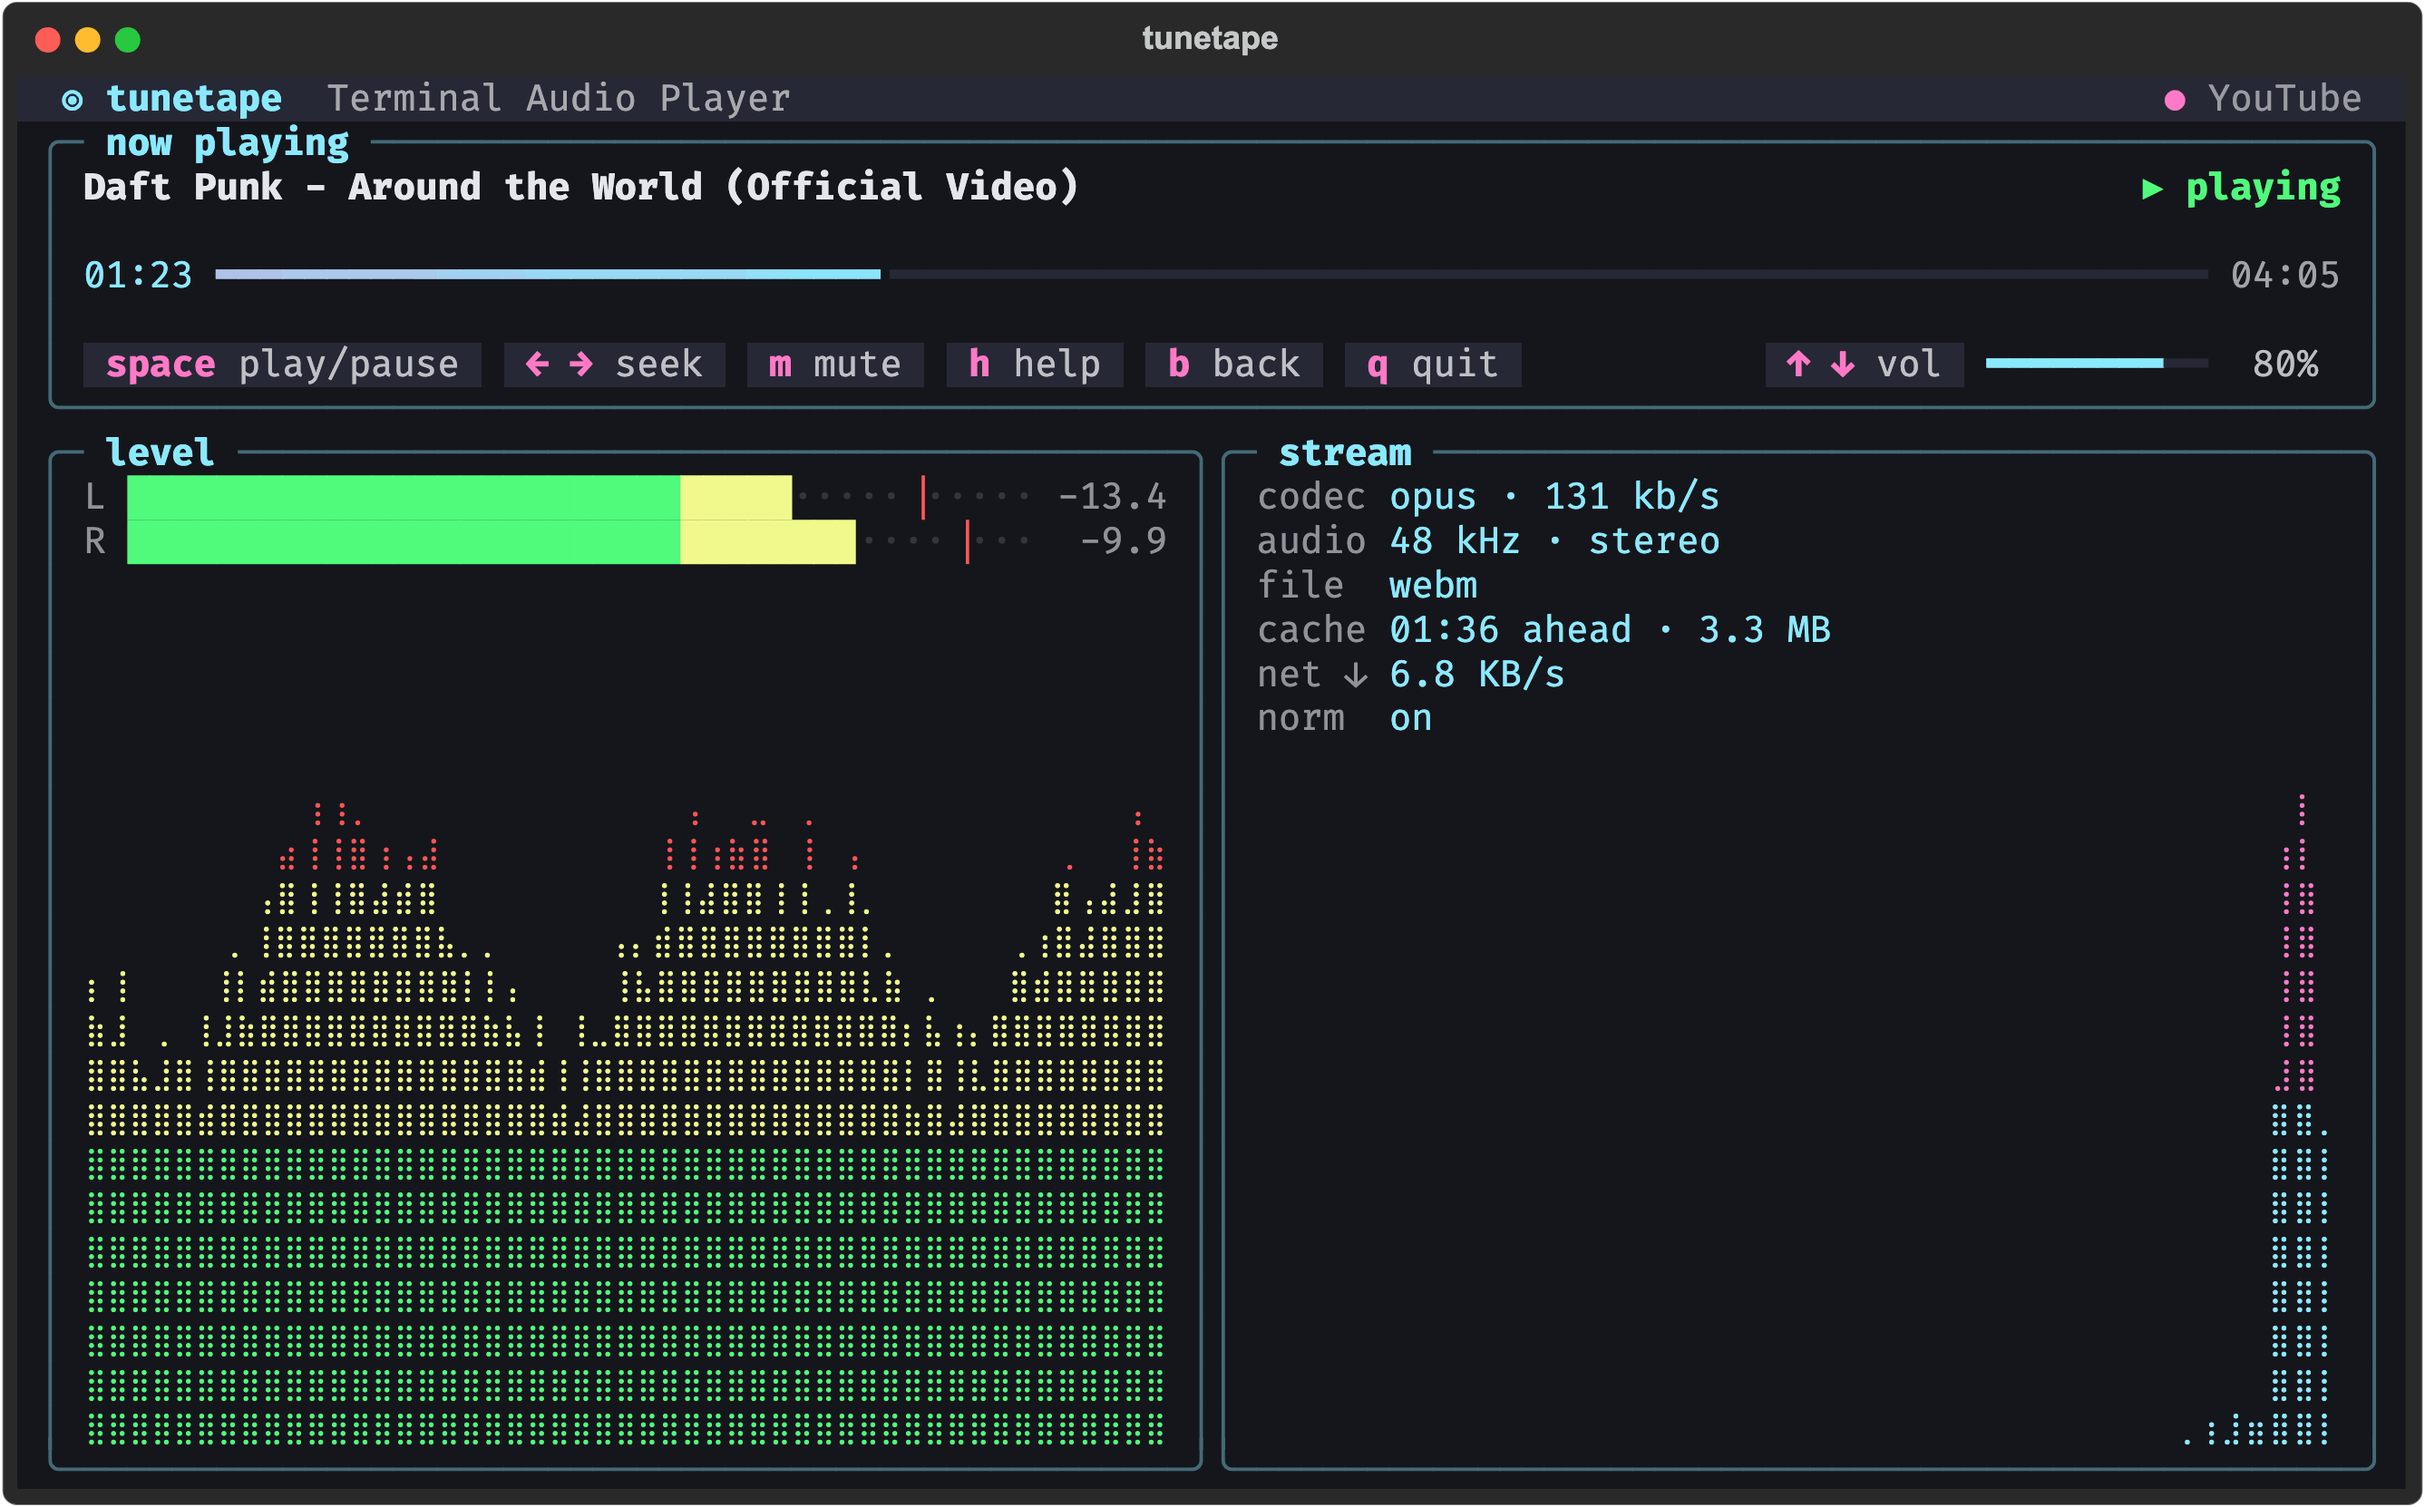
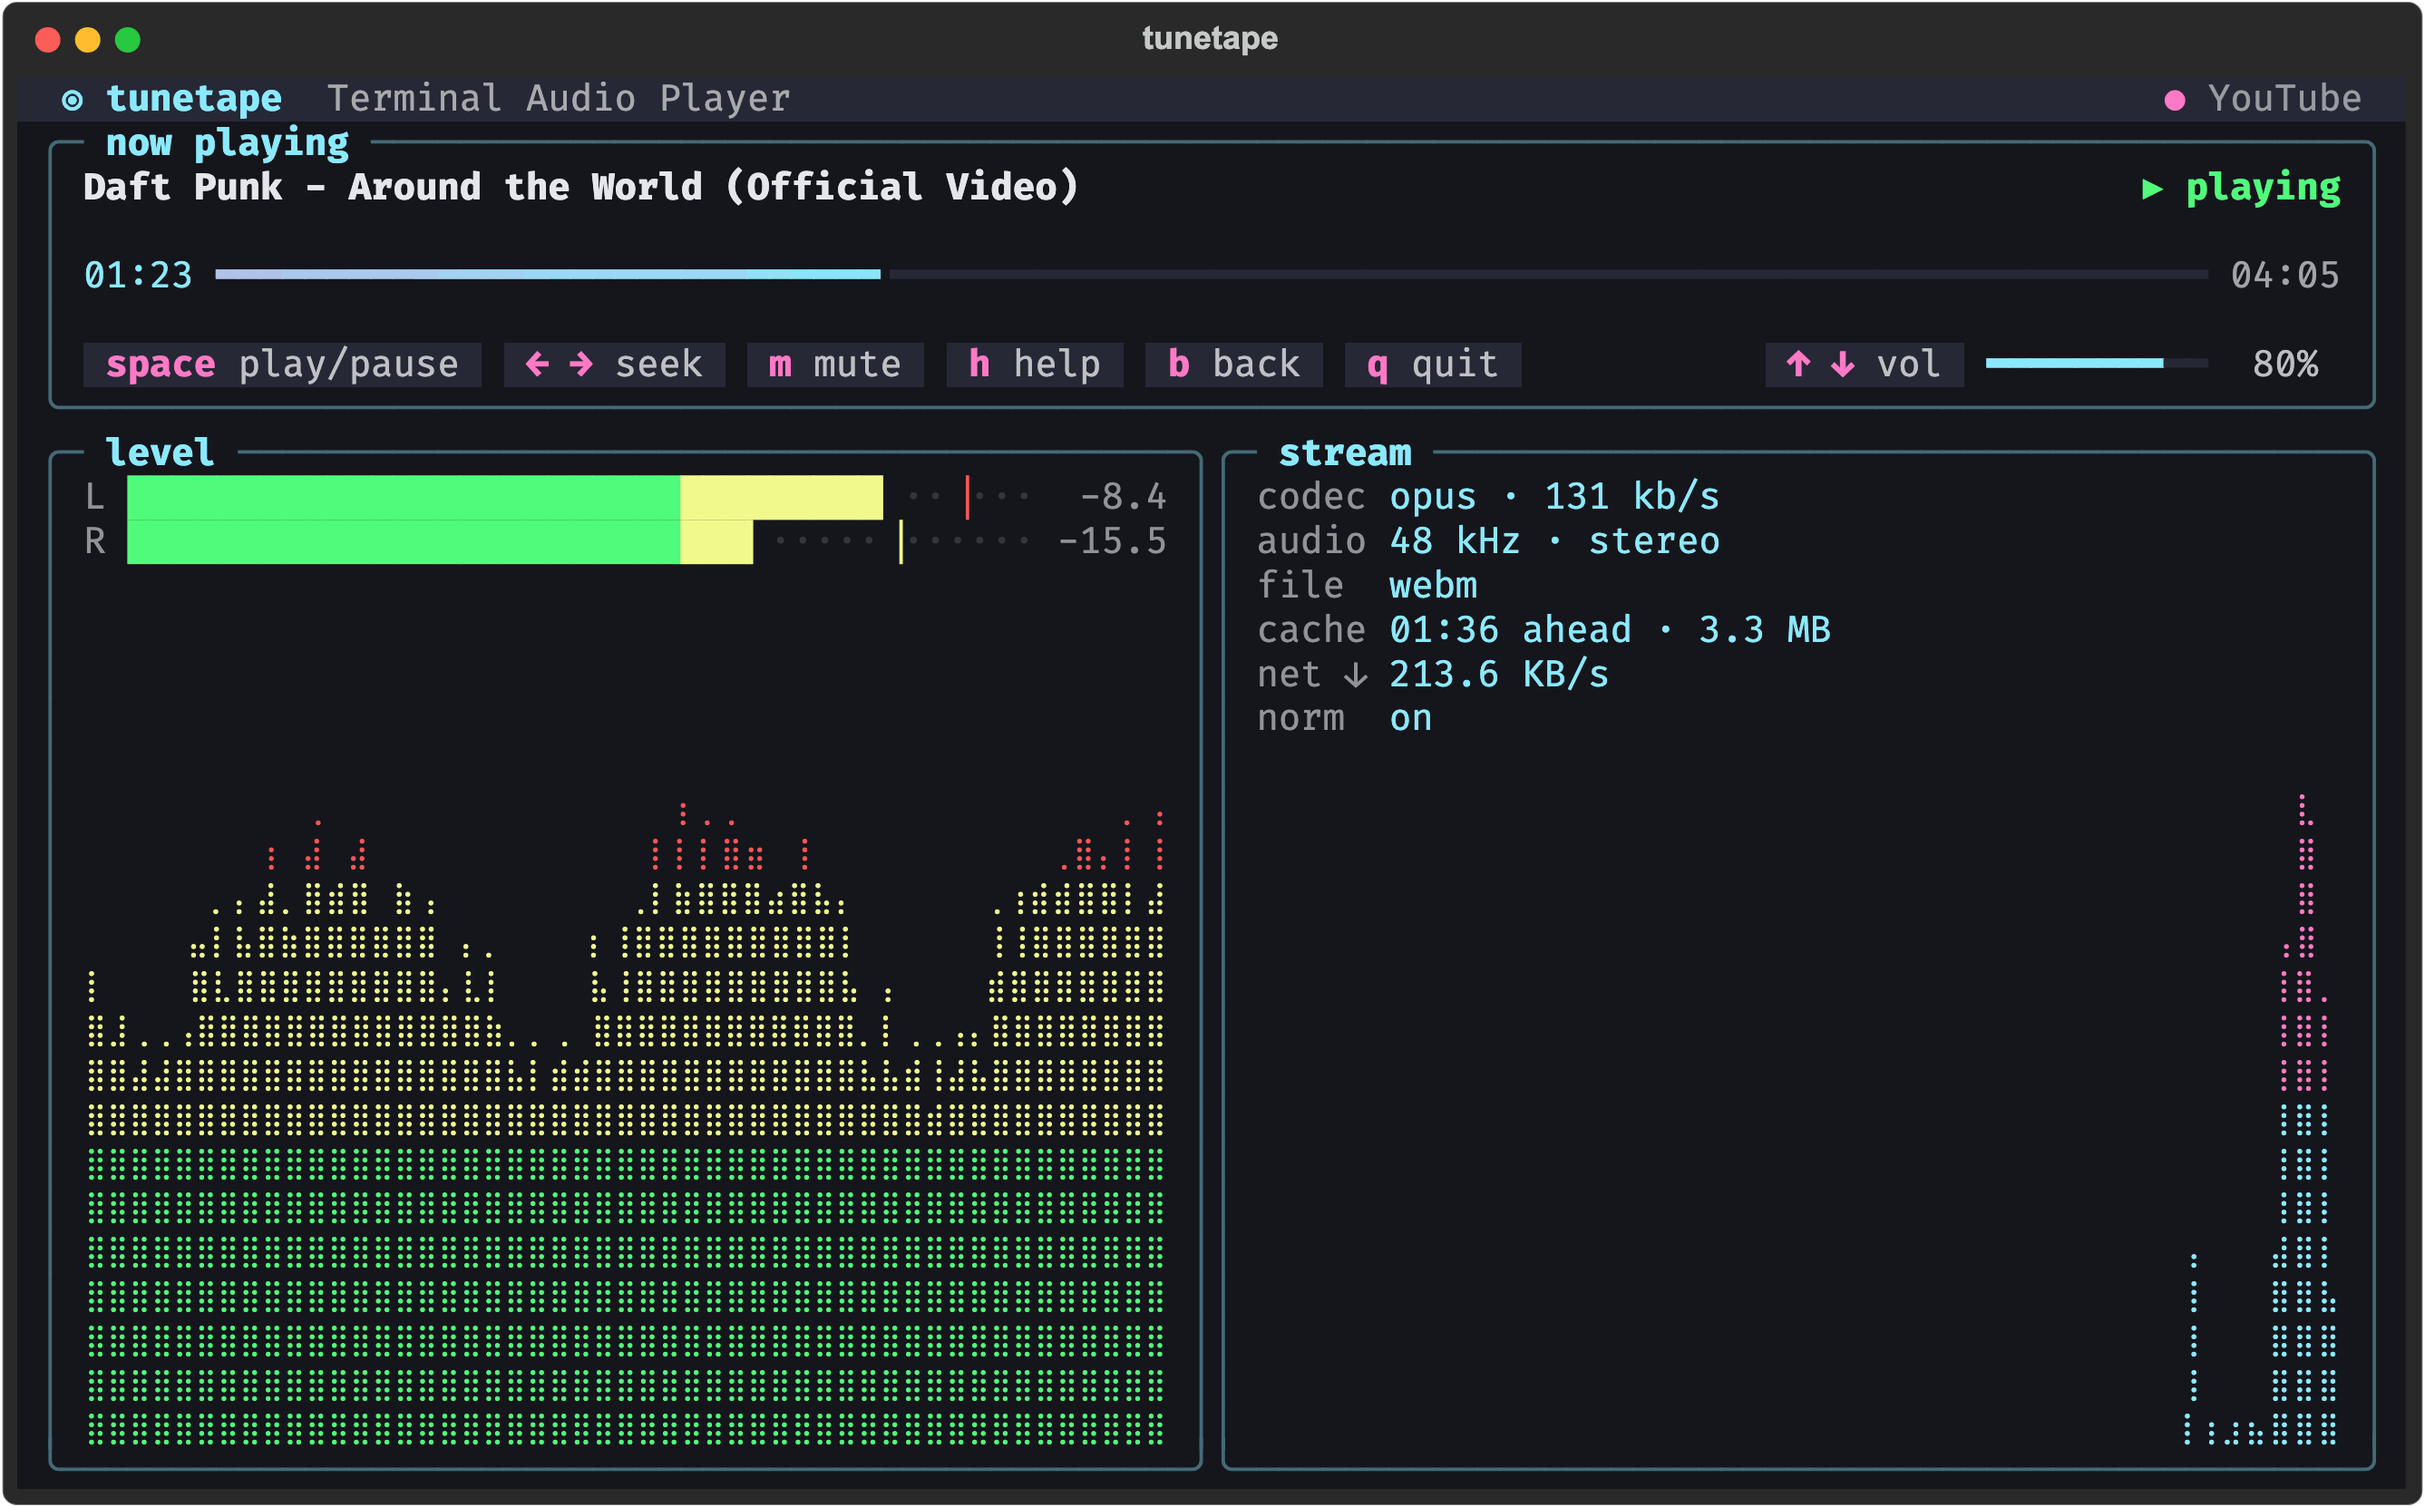
Show just the keys on the player's caps below 96 columns
Narrower than 96 columns, the player's caps drop their labels and show
only the key (space, ← →, m, p, n, h, b, q); from 96 up they keep the
labels. When the caps and the volume gauge don't fit one row, the caps
stay together and the gauge takes the row below, right-aligned, unless
balancing them together saves a row.

diff --git a/tunetape/widgets.py b/tunetape/widgets.py
@@ -367,7 +367,9 @@ class KeyCaps(Widget):
     left, and a ``tail`` (say, a volume gauge) sits at the right end of the
     last row. ``boxed`` caps are little boxes with the key in the top border
     instead, falling back to pills when the terminal is shorter than
-    ``flat_below`` rows. Clicking a cap runs its action; with ``navigable``
+    ``flat_below`` rows. On terminals narrower than ``keys_only_below``
+    columns the pills drop their labels and show just the key. Clicking a
+    cap runs its action; with ``navigable``
     the arrows move a cursor between caps and enter presses the one under it.
     ``None`` in ``caps`` starts a new row. Caps whose action the screen's
     ``check_action`` hides or disables are dropped or dimmed, so call
@@ -397,12 +399,14 @@ class KeyCaps(Widget):
             self.x = x
 
     def __init__(self, caps: list, *, navigable: bool = False, boxed: bool = False,
-                 flat_below: int = 0, align: str = "left", **kwargs):
+                 flat_below: int = 0, keys_only_below: int = 0, align: str = "left",
+                 **kwargs):
         super().__init__(**kwargs)
         self.caps = list(caps)
         self.can_focus = navigable
         self.boxed = boxed
         self.flat_below = flat_below
+        self.keys_only_below = keys_only_below
         self.align = align
         self.tail = None  # Content drawn after the last cap
         self._hits = []  # (x0, x1, y0, y1, index) of each cap drawn last
@@ -424,6 +428,10 @@ class KeyCaps(Widget):
         # height always changes with the style, so the caps repaint too.
         return not self.boxed or self.screen.size.height < self.flat_below
 
+    @property
+    def keys_only(self) -> bool:
+        return self.flat and self.screen.size.width < self.keys_only_below
+
     def _state(self, cap: Cap) -> Optional[bool]:
         """True to draw, None to draw disabled, False to leave out."""
         if cap.action is None:
@@ -441,6 +449,8 @@ class KeyCaps(Widget):
 
     def _cap_width(self, cap: Cap) -> int:
         key, label = cell_len(cap.key), cell_len(cap.label)
+        if self.keys_only:
+            return key + 2
         if self.flat:
             return key + label + 3
         return max(label + 4, key + 6)
@@ -456,15 +466,29 @@ class KeyCaps(Widget):
             state = self._state(cap)
             if state is not False:
                 segment.append((i, cap, state is True, self._cap_width(cap)))
-        if self.tail is not None:
-            # A wider gap before the tail sets it apart from the caps.
-            segment.append((TAIL, None, True, self.tail.cell_length + 2))
         segments.append(segment)
-        rows = []
-        for segment in filter(None, segments):
-            for row in balanced_rows([c[3] for c in segment], width):
-                rows.append([segment[j] for j in row])
-        return rows
+        segments = [seg for seg in segments if seg]
+
+        def balance(items: list) -> list:
+            return [[items[j] for j in row] for row in balanced_rows([c[3] for c in items], width)]
+
+        rows = [row for seg in segments[:-1] for row in balance(seg)]
+        last = segments[-1] if segments else []
+        if self.tail is None:
+            return rows + balance(last)
+        # A wider gap before the tail sets it apart from the caps. Either the
+        # caps keep their rows and the tail ends the last one (or takes a row
+        # of its own), or caps and tail are balanced together; the fewer rows
+        # win, and the caps staying together wins a tie.
+        tail = (TAIL, None, True, self.tail.cell_length + 2)
+        apart = balance(last)
+        used = sum(c[3] for c in apart[-1]) + GAP * len(apart[-1]) if apart else 0
+        if apart and used + tail[3] <= width:
+            apart[-1] = apart[-1] + [tail]
+        else:
+            apart.append([tail])
+        mixed = balance(last + [tail])
+        return rows + (apart if len(apart) <= len(mixed) else mixed)
 
     def get_content_width(self, container, viewport) -> int:
         # As wide as one row of everything, for auto-width parents (dialogs).
@@ -486,6 +510,8 @@ class KeyCaps(Widget):
     def _draw(self, cap: Cap, width: int, look: str) -> list:
         if self.flat:
             key_style, label_style, fill = _FLAT_LOOKS[look]
+            if self.keys_only:
+                return [Content.assemble((f" {cap.key} ", key_style + fill))]
             return [Content.assemble(
                 (f" {cap.key} ", key_style + fill), (f"{cap.label} ", label_style + fill),
             )]

diff --git a/tunetape/player_screen.py b/tunetape/player_screen.py
@@ -23,6 +23,8 @@ from tunetape.widgets import Cap, Graph, KeyCaps, LevelMeter, Marquee, TopBar
 POLL_SECONDS = 0.1
 STATE_EVERY = 3   # position aside, playback state every 0.3 s
 STATS_EVERY = 10  # stream stats every second
+# Narrower than this, the player's caps show just their keys (space, ← →, m…).
+KEYS_ONLY_BELOW = 96
 # The level graph spans a tighter range than the meter's bars, so the swells
 # of a song show as hills instead of a flat block.
 GRAPH_FLOOR = -36.0
@@ -170,7 +172,7 @@ class PlayerScreen(FlowScreen):
                         yield Static("00:00", id="elapsed")
                         yield ProgressBar(show_percentage=False, show_eta=False, id="progress")
                         yield Static("--:--", id="duration")
-                    yield KeyCaps(PLAYER_CAPS, id="player-caps")
+                    yield KeyCaps(PLAYER_CAPS, keys_only_below=KEYS_ONLY_BELOW, id="player-caps")
                 with Horizontal(id="stats"):
                     with Vertical(id="level", classes="box"):
                         yield LevelMeter(id="meter")

diff --git a/tests/test_tui.py b/tests/test_tui.py
@@ -286,6 +286,22 @@ def test_level_and_stream_panels_follow_the_controller():
     assert seen["samples"] >= 5
 
 
+@pytest.mark.parametrize("size, labels", [((96, 30), True), ((95, 30), False), ((60, 24), False)])
+def test_player_caps_drop_labels_below_96_columns(size, labels):
+    seen = {}
+
+    async def script(pilot, app):
+        await until(pilot, on(app, "PlayerScreen"))
+        await pilot.pause(0.2)
+        seen["text"] = str(app.screen.query_one("#player-caps").render())
+
+    flow, _ = album_flow()
+    drive(flow, script, size)
+    assert " space " in seen["text"] and " q " in seen["text"]
+    assert ("play/pause" in seen["text"]) is labels
+    assert "vol" in seen["text"]  # the volume gauge stays as it is
+
+
 def test_long_titles_scroll_like_a_car_radio():
     long_title = "A Very Long Song Title That Will Never Fit In Sixty Columns (Remastered)"
     seen = []
